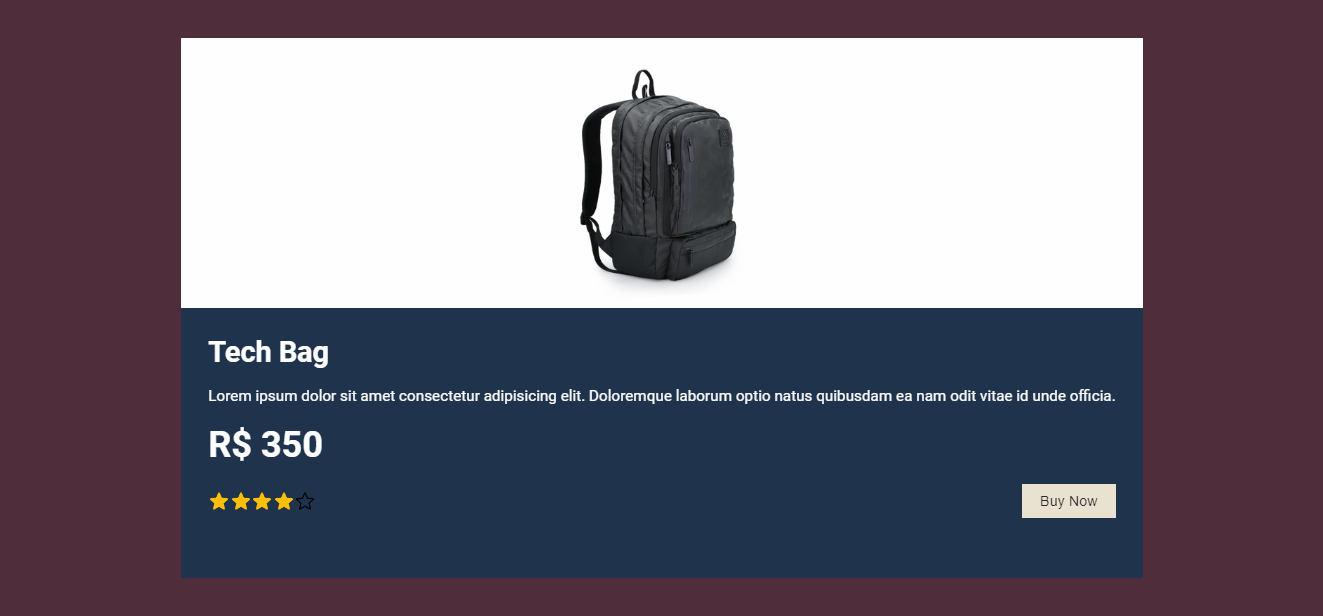
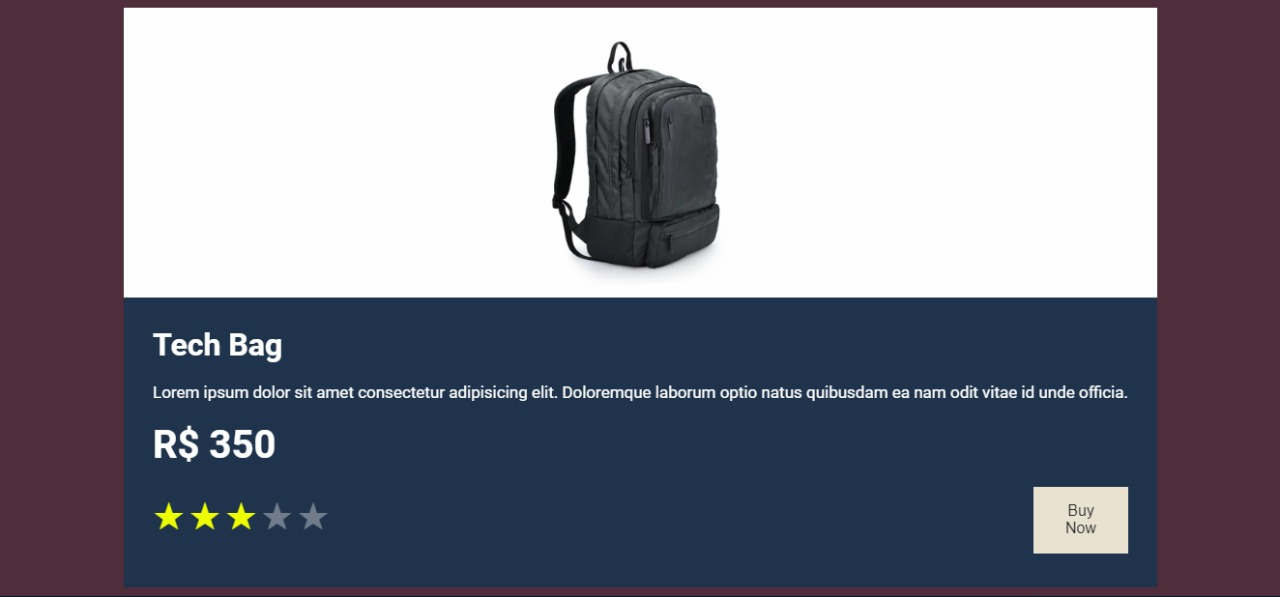
Updating Project
Optimizing the project and add a star voting feedback system.

Changed region(s): [[0.0, 0.0, 1.0, 1.0]]

diff --git a/index.html b/index.html
@@ -18,13 +18,13 @@
             <p class="info">Lorem ipsum dolor sit amet consectetur adipisicing elit. Doloremque laborum optio natus quibusdam ea nam odit vitae id unde officia.</p>
             <p class="price">R$ 350</p>
             <div class="btn-and-rating-box">
-                <div class="rating">
-                    <img src="/imgs/star_full.png" alt="">
-                    <img src="/imgs/star_full.png" alt="">
-                    <img src="/imgs/star_full.png" alt="">
-                    <img src="/imgs/star_full.png" alt="">
-                    <img src="/imgs/star_mt.png" alt="">
-                </div>
+                <ul class="rating">
+                    <li class="star"></li>
+                    <li class="star"></li>
+                    <li class="star"></li>
+                    <li class="star"></li>
+                    <li class="star"></li>
+                </ul>
                 <button class="btn">buy now</button>
             </div>
         </div>

diff --git a/style.css b/style.css
@@ -77,17 +77,37 @@ body{
 }
 
 .rating{
-    width: fit-content;
-    display: flex;
-    justify-content: center;
-    align-items: center;
+    list-style-type: none;
+    margin: 0;
+    padding: 0;
+    width: 100%;
+    direction: rtl;
+    text-align: left;
 }
 
-.rating img{
-    width: 20px;
-    height: 20px;
-    margin: 0 2px;
+.star {
+    position: relative;
+    line-height: 60px;
+    display: inline-block;
+    transition: color 0.2s ease;
+    color: #ebebeb65;
 }
+.star:before {
+    content: '\2605';
+    width: 60px;
+    height: 60px;
+    font-size: 40px;
+}
+  
+.star:hover,
+.star.selected,
+.star:hover ~ .star,
+.star.selected ~ .star{
+transition: color 0.8s ease;
+color: rgb(238, 255, 0);
+}
+
+
 
 .btn{
     background: #eae3d2;

diff --git a/function.js b/function.js
@@ -1,0 +1,12 @@
+$(function (){
+    var star = '.star',
+        selected = '.selected';
+
+    $(star).on('click', function(){
+        $(selected).each(function(){
+        $(this).removeClass('selected');
+        });
+        $(this).addClass('selected');
+    });
+   
+});
